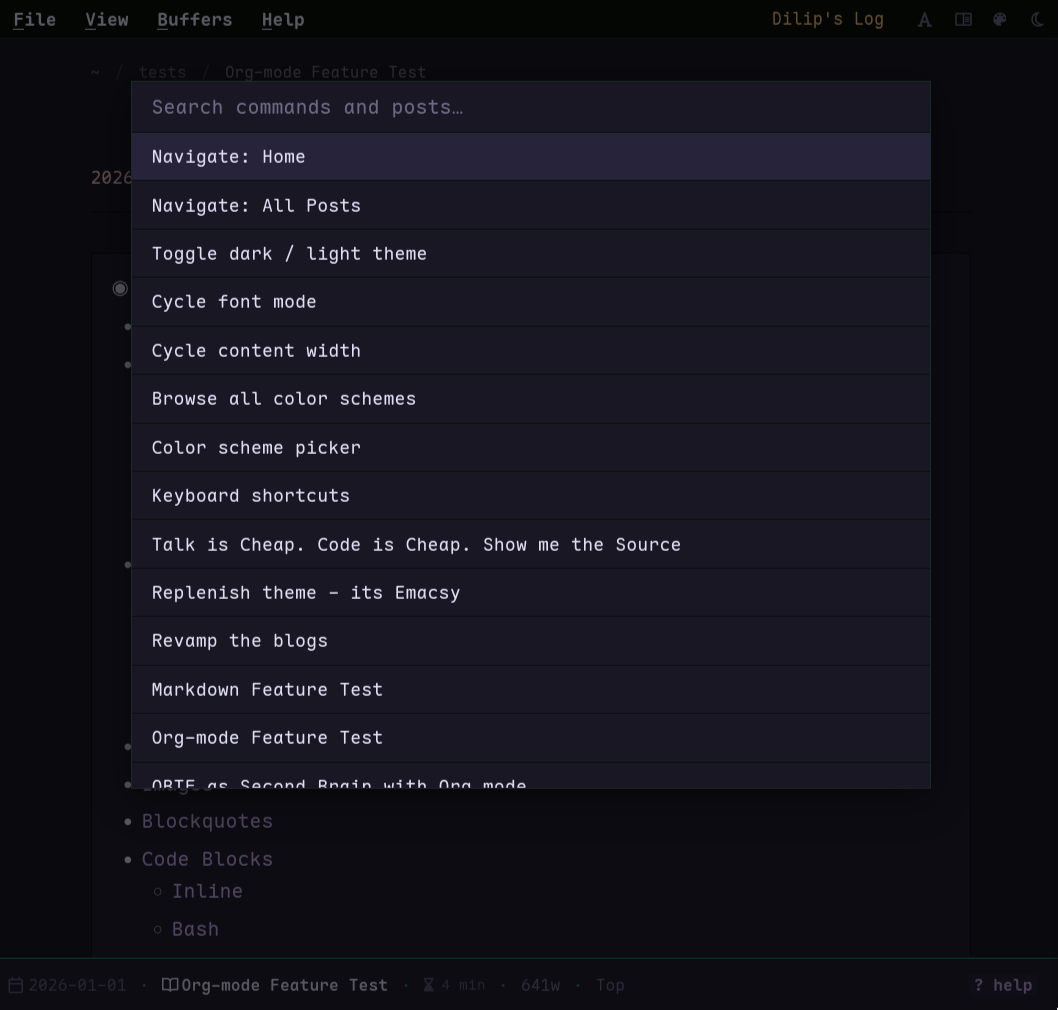
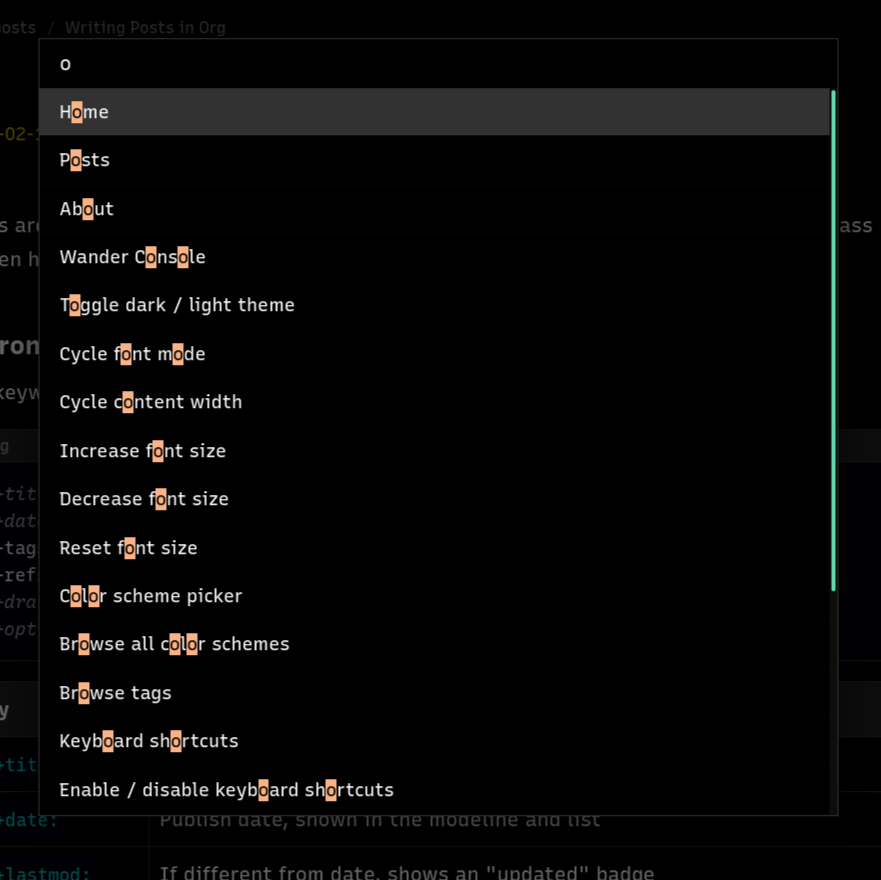
chore: trim out duplicate html + update screenshot image

diff --git a/layouts/_default/topic-list.html b/layouts/_default/topic-list.html
@@ -2,11 +2,15 @@
   {{- /*
     topic-list layout — unified listing for wander, projects, media, and future topic pages.
     Activate via Org front matter: #+layout: topic-list
+    Content must have at least one H2 (Org `* Heading`) above its dt/dl item
+    list — every topic page, wander included, uses the same H2-grouped
+    rendering path below; there's no separate ungrouped/flat-list mode
+    anymore (removed 2026-08-22, wander's list now just has one H2 like any
+    other topic page instead of a special-cased branch for it).
     Config via additional #+property: front matter:
     icons_param  — site.Params key for icon map keyed by H2 label|lower; optional
     sort         — "name" to sort items alphabetically; omit to preserve Org order
     show_console — truthy: show wander launch button (uses .Params.wanderconsoles)
-    list_label   — label for the flat-list divider (e.g. "↝ Known Sites"); optional
     chip_color   — base16 var name e.g. "base0E"; sets --chip-color on chip row
     buffer_name  — override modeline buffer name; default: first word of title */ -}}
   {{- $iconsParam := .Params.icons_param | default "tagicons" -}}
@@ -14,11 +18,9 @@
   {{- $chipColor   := .Params.chip_color | default "" -}}
   {{- $doSort      := eq (.Params.sort | default "") "name" -}}
   {{- $showConsole := .Params.show_console -}}
-  {{- $listLabel   := .Params.list_label | default "" -}}
   {{- $bufName     := .Params.buffer_name | default (printf "*%s*" (.Title | lower | replaceRE `\s.*` "")) -}}
 
   {{- $chunks := split .Content "<h2" -}}
-  {{- $hasH2  := gt (len $chunks) 1 -}}
 
 
   <section
@@ -40,7 +42,7 @@
           {{- end }}
         </div>
 
-        {{- $intro := (cond $hasH2 (index $chunks 0) .Content) | replaceRE `(?s)<dl>.*?</dl>` "" -}}
+        {{- $intro := index $chunks 0 | replaceRE `(?s)<dl>.*?</dl>` "" -}}
         {{- with $intro }}
           <div class="post-body">{{ . | safeHTML }}</div>
         {{- end }}
@@ -118,65 +120,36 @@
             {{- end }}
           {{- end }}
 
-          {{- if $hasH2 }}
-            {{- /* H2-grouped items (projects, media) */}}
-            {{- range after 1 $chunks -}}
-              {{- $chunk := . -}}
-              {{- $label := $chunk | replaceRE `(?s)^[^>]*>(.*?)</h2>.*` "$1" | replaceRE `<[^>]+>` "" | strings.TrimSpace -}}
-              {{- $dts   := findRE `<dt>(?s:.*?)</dt>` $chunk -}}
-              {{- $dds   := findRE `<dd>(?s:.*?)</dd>` $chunk -}}
+          {{- range after 1 $chunks -}}
+            {{- $chunk := . -}}
+            {{- $label := $chunk | replaceRE `(?s)^[^>]*>(.*?)</h2>.*` "$1" | replaceRE `<[^>]+>` "" | strings.TrimSpace -}}
+            {{- $dts   := findRE `<dt>(?s:.*?)</dt>` $chunk -}}
+            {{- $dds   := findRE `<dd>(?s:.*?)</dd>` $chunk -}}
 
-              {{- if $label -}}
-                {{- $icon := index $iconsMap ($label | htmlUnescape | lower) | default (index $iconsMap "_default") | default "" -}}
+            {{- if $label -}}
+              {{- $icon := index $iconsMap ($label | htmlUnescape | lower) | default (index $iconsMap "_default") | default "" -}}
 
-
-                <li class="year-divider">
-                  <span class="year-label"
-                    >{{ $label | htmlUnescape }}<span class="year-count"
-                      >({{ len $dts }})</span
-                    ></span
-                  >
-                </li>
-
-                {{- $items := slice -}}
-                {{- range $i, $dt := $dts -}}
-                  {{- $items = $items | append (partial "parse-dl.html" (dict "dt" $dt "dd" (index $dds $i))) -}}
-                {{- end -}}
-                {{- if $doSort }}{{- $items = sort $items "name" }}{{- end }}
-
-                {{- range $items }}
-                  {{- $itemIcon := partial "resolve-icon.html" (dict "item" . "iconsMap" $iconsMap "fallback" $icon) -}}
-                  {{ partial "topic-list-item.html" (dict "e" . "icon" $itemIcon "chipColor" $chipColor) }}
-                {{- end -}}
-
-              {{- end -}}
-            {{- end -}}
-
-          {{- else }}
-
-            {{- /* Flat list (wander-style) */}}
-            {{- $dts  := findRE `<dt>(?s:.*?)</dt>` .Content -}}
-            {{- $dds  := findRE `<dd>(?s:.*?)</dd>` .Content -}}
-            {{- $icon := index $iconsMap "_default" | default "" -}}
-
-            {{- $items := slice -}}
-            {{- range $i, $dt := $dts -}}
-              {{- $items = $items | append (partial "parse-dl.html" (dict "dt" $dt "dd" (index $dds $i))) -}}
-            {{- end -}}
-            {{- if $doSort }}{{- $items = sort $items "name" }}{{- end }}
-
-            {{- if and $items $listLabel }}
               <li class="year-divider">
-                <span class="year-label">{{ $listLabel }}</span>
+                <span class="year-label"
+                  >{{ $label | htmlUnescape }}<span class="year-count"
+                    >({{ len $dts }})</span
+                  ></span
+                >
               </li>
-            {{- end }}
 
-            {{- range $items }}
-              {{- $itemIcon := partial "resolve-icon.html" (dict "item" . "iconsMap" $iconsMap "fallback" $icon) -}}
-              {{ partial "topic-list-item.html" (dict "e" . "icon" $itemIcon "chipColor" $chipColor) }}
+              {{- $items := slice -}}
+              {{- range $i, $dt := $dts -}}
+                {{- $items = $items | append (partial "parse-dl.html" (dict "dt" $dt "dd" (index $dds $i))) -}}
+              {{- end -}}
+              {{- if $doSort }}{{- $items = sort $items "name" }}{{- end }}
+
+              {{- range $items }}
+                {{- $itemIcon := partial "resolve-icon.html" (dict "item" . "iconsMap" $iconsMap "fallback" $icon) -}}
+                {{ partial "topic-list-item.html" (dict "e" . "icon" $itemIcon "chipColor" $chipColor) }}
+              {{- end -}}
+
             {{- end -}}
-
-          {{- end }}
+          {{- end -}}
 
         </ul>
 
